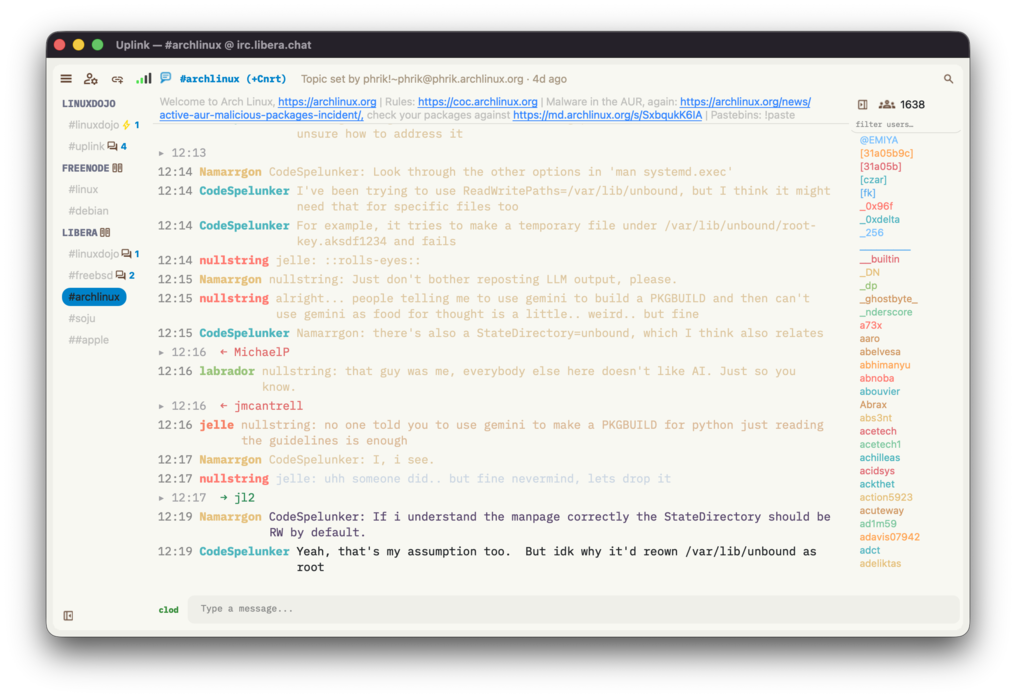
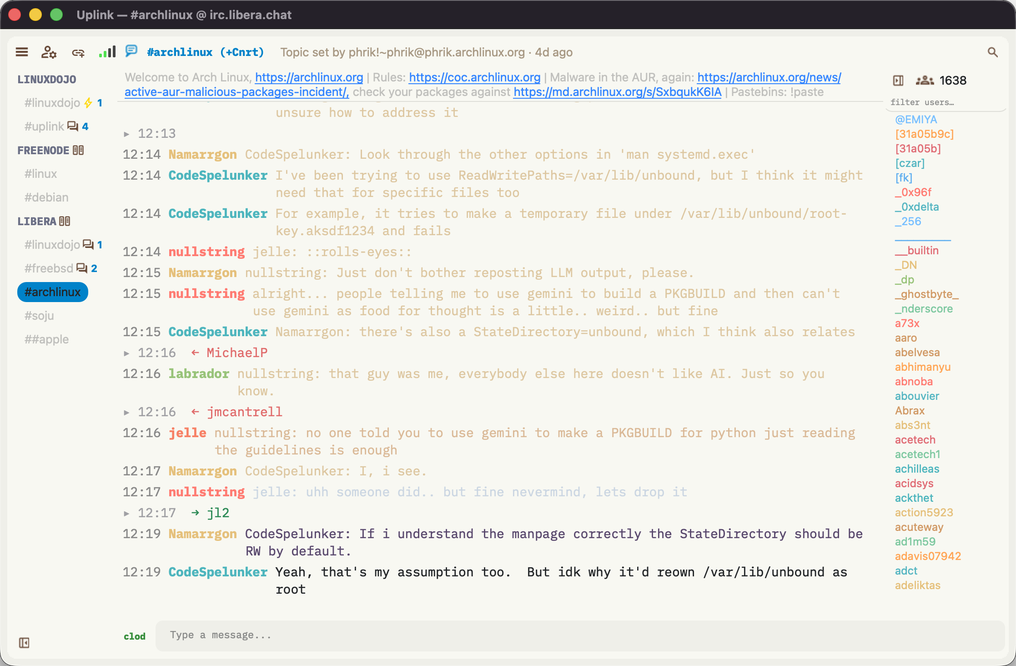
Fix hero letterbox and add clean humanoid-light screenshot
The hero crossfaded two screenshot shapes (gruvbox-dark/dracula at
1016x824 and gruvbox-light at 1016x666), so the shorter one letterboxed
with an empty band in the fixed-ratio frame. Rebuild the hero from three
same-shape clean captures (nord, gruvbox-light, harmonic16) and size the
frame to 1016x666 so every layer fills it. Also crop humanoid-light to
the window like the others (was the last black-background shot).

diff --git a/docs/index.html b/docs/index.html
@@ -218,7 +218,7 @@
      its own aspect ratio (some themes are shorter) — prevents a shorter image
      from letting the one behind it peek out. */
   .hero-frame {
-    position: relative; padding-top: calc(824 / 1016 * 100%);
+    position: relative; padding-top: calc(666 / 1016 * 100%);
     border-radius: 8px; border: 1px solid var(--gb-bg2);
     box-shadow: 0 20px 50px rgba(60,56,54,0.22); overflow: hidden;
   }
@@ -509,9 +509,9 @@
   </div>
   <div class="hero-shot">
     <div class="hero-frame">
-      <img src="assets/gruvbox-dark.png" alt="Uplink in Gruvbox Dark theme" width="1016" height="824">
-      <img src="assets/dracula.png" alt="Uplink in Dracula theme" width="1016" height="824">
+      <img src="assets/nord.png" alt="Uplink in Nord theme" width="1016" height="666">
       <img src="assets/gruvbox-light.png" alt="Uplink in Gruvbox Light theme" width="1016" height="666">
+      <img src="assets/harmonic16.png" alt="Uplink in Harmonic16 theme" width="1016" height="666">
     </div>
   </div>
 </header>
@@ -648,7 +648,7 @@
       <img id="shot-acton" src="assets/acton.png" alt="Uplink in Acton" width="1016" height="824" loading="lazy">
       <img id="shot-zenburn" src="assets/zenburn.png" alt="Uplink in Zenburn" width="1016" height="824" loading="lazy">
       <img id="shot-harmonic16" src="assets/harmonic16.png" alt="Uplink in Harmonic16" width="1016" height="666" loading="lazy">
-      <img id="shot-humanoid-light" src="assets/humanoid-light.png" alt="Uplink in Humanoid Light" width="1016" height="698" loading="lazy">
+      <img id="shot-humanoid-light" src="assets/humanoid-light.png" alt="Uplink in Humanoid Light" width="1016" height="666" loading="lazy">
     </div>
     <p class="theme-count"><b>297 more</b> in Preferences → Theme. Per-widget font sizes, hanging indent toggle, and a collapsible sidebar round out the fit-and-finish.</p>
     <p class="theme-count">Want your own? Drop a <code>.toml</code> file into <code>~/.config/uplink/themes/</code> and it shows up in the list on next launch. Copy any shipped theme as a starting point — <a href="howto.html#themes">full guide →</a></p>
